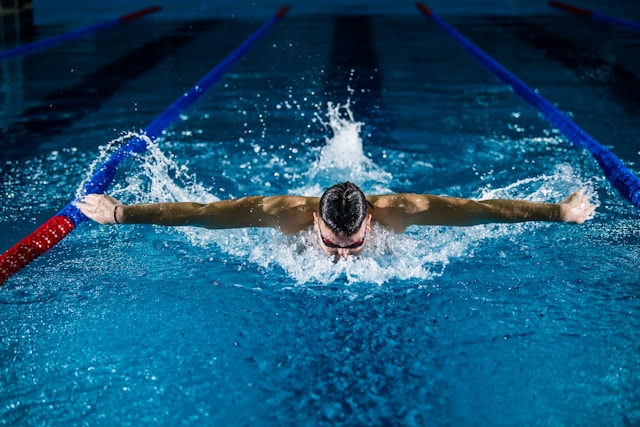
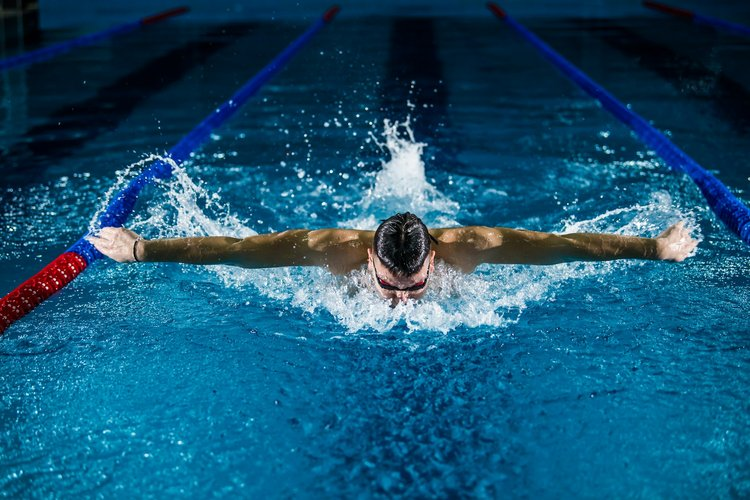
fix: hero mobile - object-cover with center crop, regenerate swimmer-small portrait

diff --git a/components/HeroSection.tsx b/components/HeroSection.tsx
@@ -9,7 +9,7 @@ export default function HeroSection() {
       style={{ minHeight: "100dvh" }}
     >
       {/* Background Image — <picture> for responsive small/large variants */}
-      <picture>
+      <picture className="absolute inset-0 w-full h-full">
         <source
           media="(min-width: 768px)"
           srcSet="/images/swimmer-large.jpg"
@@ -17,7 +17,7 @@ export default function HeroSection() {
         <img
           src="/images/swimmer-small.jpg"
           alt="Arnaud Chevallier, coach sportif à Valbonne"
-          className="absolute inset-0 w-full h-full object-cover"
+          className="w-full h-full object-cover object-[center_30%]"
           fetchPriority="high"
         />
       </picture>
